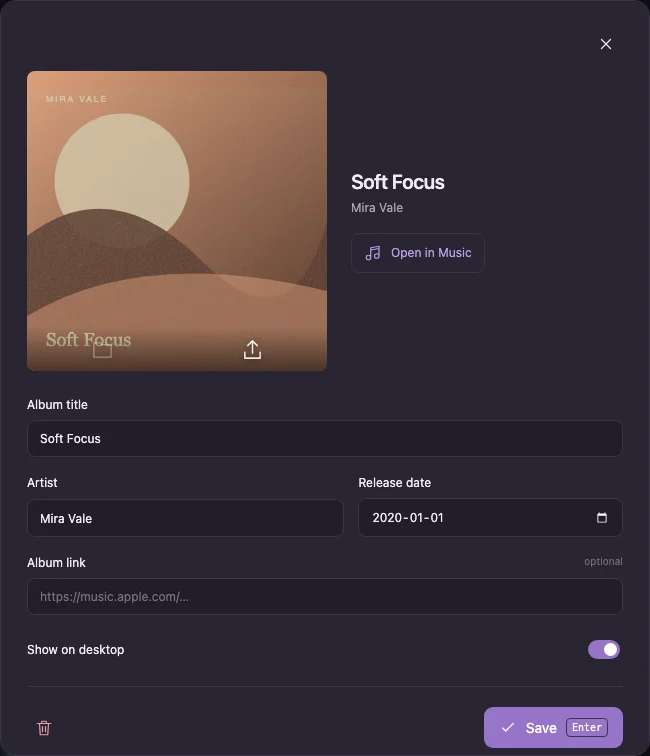
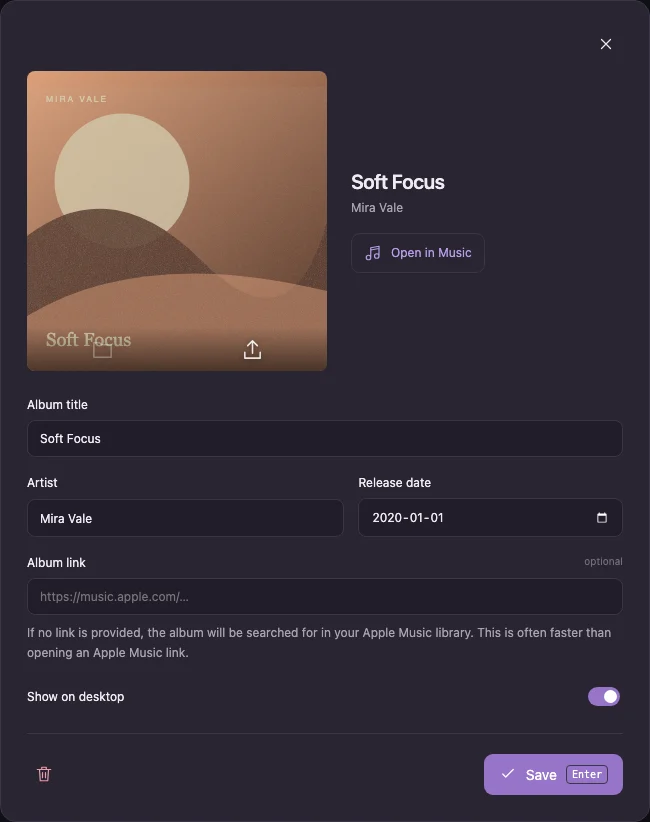
Explain Music library lookup below empty album links

diff --git a/src/App.svelte b/src/App.svelte
@@ -234,7 +234,7 @@
  <input class="visually-hidden" bind:this={files} type="file" accept="image/*" multiple onchange={(e)=>{void browserFiles(Array.from(e.currentTarget.files??[]));e.currentTarget.value=''}} aria-label="Artwork files"/>
  <input class="visually-hidden" bind:this={replacementFiles} type="file" accept="image/*" aria-label="Replacement image" onchange={(e)=>{const file=e.currentTarget.files?.[0];if(file)void replace(file);e.currentTarget.value=''}}/>
  <dialog class="album-dialog" bind:this={modal} onpointerdown={(e)=>backdropPointerDown=e.target===modal&&outsideDialog(modal,e)} onpointerup={(e)=>{if(backdropPointerDown&&e.target===modal&&outsideDialog(modal,e))closeEditor();backdropPointerDown=false}} onclose={()=>{if(!modal.open){gallery?.close();edit=null;confirmRemove=false}}} oncancel={closeEditor}>
- {#if edit}<form bind:this={editorForm} onsubmit={(e)=>{e.preventDefault();void saveAlbum()}}><div class="modal-heading"><button class="icon-only" type="button" aria-label="Close album editor" onclick={closeEditor}><Icon name="close"/></button></div><div class="editor-top"><div class="editor-artwork" bind:this={artworkTarget} class:replacing ondragover={(e)=>e.preventDefault()} ondrop={(e)=>{e.preventDefault();if(!api.native&&e.dataTransfer?.files.length===1)void replace(e.dataTransfer.files[0])}} role="presentation"><img draggable="false" ondragstart={(e)=>e.preventDefault()} src={api.originalUrl(edit)} alt={edit.title}/><button type="button" class="artwork-expand" aria-label="View original artwork" onclick={()=>edit&&showGallery(edit)}></button><div class="artwork-actions"><button type="button" class="icon-only" aria-label="Show original artwork in Finder" title="Show original artwork in Finder" onclick={revealArtwork} disabled={replacing||!api.native}><Icon name="folder"/></button><button type="button" class="icon-only" aria-label="Replace artwork" title="Replace artwork" onclick={chooseReplacement} disabled={replacing}><Icon name="upload"/></button></div>{#if replacing}<span class="replacement-progress">Replacing…</span>{/if}</div><div><h3>{edit.title}</h3><p>{edit.artist||'Make it your own.'}</p><button type="button" class="open-music" onclick={()=>edit&&open(edit)}><Icon name="music"/>Open in Music</button></div></div><label>Album title<input required bind:value={edit.title}/></label><div class="two-fields"><label>Artist<input bind:value={edit.artist}/></label><label>Release date<input type="date" bind:value={edit.date}/></label></div><label>Album link <span class="optional">optional</span><input type="url" placeholder="https://music.apple.com/…" bind:value={edit.url}/></label><label class="toggle-row"><span>Show on desktop</span><input class="switch" type="checkbox" bind:checked={edit.enabled}/></label><div class="editor-actions">{#if confirmRemove}<button type="button" class="danger" onclick={remove}>Remove this album</button><button type="button" onclick={()=>confirmRemove=false}>Keep it</button>{:else}<button type="button" class="icon-only danger" aria-label="Remove album" onclick={()=>confirmRemove=true}><Icon name="trash"/></button><button type="submit" class="primary" aria-label="Save" aria-keyshortcuts="Enter" disabled={saving||replacing}><Icon name="check"/>Save<Shortcut keys={['Enter']}/></button>{/if}</div></form>{/if}
+ {#if edit}<form bind:this={editorForm} onsubmit={(e)=>{e.preventDefault();void saveAlbum()}}><div class="modal-heading"><button class="icon-only" type="button" aria-label="Close album editor" onclick={closeEditor}><Icon name="close"/></button></div><div class="editor-top"><div class="editor-artwork" bind:this={artworkTarget} class:replacing ondragover={(e)=>e.preventDefault()} ondrop={(e)=>{e.preventDefault();if(!api.native&&e.dataTransfer?.files.length===1)void replace(e.dataTransfer.files[0])}} role="presentation"><img draggable="false" ondragstart={(e)=>e.preventDefault()} src={api.originalUrl(edit)} alt={edit.title}/><button type="button" class="artwork-expand" aria-label="View original artwork" onclick={()=>edit&&showGallery(edit)}></button><div class="artwork-actions"><button type="button" class="icon-only" aria-label="Show original artwork in Finder" title="Show original artwork in Finder" onclick={revealArtwork} disabled={replacing||!api.native}><Icon name="folder"/></button><button type="button" class="icon-only" aria-label="Replace artwork" title="Replace artwork" onclick={chooseReplacement} disabled={replacing}><Icon name="upload"/></button></div>{#if replacing}<span class="replacement-progress">Replacing…</span>{/if}</div><div><h3>{edit.title}</h3><p>{edit.artist||'Make it your own.'}</p><button type="button" class="open-music" onclick={()=>edit&&open(edit)}><Icon name="music"/>Open in Music</button></div></div><label>Album title<input required bind:value={edit.title}/></label><div class="two-fields"><label>Artist<input bind:value={edit.artist}/></label><label>Release date<input type="date" bind:value={edit.date}/></label></div><label>Album link <span class="optional">optional</span><input type="url" placeholder="https://music.apple.com/…" bind:value={edit.url} aria-describedby={!edit.url.trim()?'album-link-help':undefined}/></label>{#if !edit.url.trim()}<p id="album-link-help" class="album-link-help">If no link is provided, the album will be searched for in your Apple Music library. This is often faster than opening an Apple Music link.</p>{/if}<label class="toggle-row"><span>Show on desktop</span><input class="switch" type="checkbox" bind:checked={edit.enabled}/></label><div class="editor-actions">{#if confirmRemove}<button type="button" class="danger" onclick={remove}>Remove this album</button><button type="button" onclick={()=>confirmRemove=false}>Keep it</button>{:else}<button type="button" class="icon-only danger" aria-label="Remove album" onclick={()=>confirmRemove=true}><Icon name="trash"/></button><button type="submit" class="primary" aria-label="Save" aria-keyshortcuts="Enter" disabled={saving||replacing}><Icon name="check"/>Save<Shortcut keys={['Enter']}/></button>{/if}</div></form>{/if}
  </dialog>
  <dialog class="artwork-gallery" bind:this={gallery} aria-label="Original artwork" onclose={()=>{if(!gallery.open)galleryAlbum=null}} onclick={closeGallery} onkeydown={(e)=>{if(e.key==='Escape'){e.preventDefault();e.stopPropagation();closeGallery()}}}>
   {#if galleryAlbum}<img src={api.originalUrl(galleryAlbum)} alt={galleryAlbum.title} draggable="false" ondragstart={(e)=>e.preventDefault()} onload={(e)=>{const image=e.currentTarget as HTMLImageElement;artworkRatio=image.naturalWidth/image.naturalHeight}} style={`--artwork-ratio:${artworkRatio}`}/>{/if}

diff --git a/src/app.css b/src/app.css
@@ -10,6 +10,7 @@ dialog{width:min(510px,calc(100vw - 40px));padding:26px;border:1px solid var(--l
 @media(min-width:1350px){.album-grid{grid-template-columns:repeat(7,minmax(0,1fr))}}@media(max-width:1000px){header{padding-inline:25px;gap:14px}main{padding:30px 28px 0}.album-grid{grid-template-columns:repeat(5,minmax(0,1fr));gap:24px 18px}h1{font-size:29px}nav button{padding:9px}.appearance-layout{gap:22px;grid-template-columns:minmax(0,1fr) 300px}.monitor-preview{height:280px}}@media(max-width:760px){header{flex-wrap:wrap;height:auto;padding:18px 20px;gap:16px}header nav{order:3;width:100%}nav button{flex:1}.titlebar{padding-left:20px}.local-indicator{display:none}main{padding:28px 20px 0}.page-heading{align-items:start;gap:14px}.status-pill{font-size:0;padding:9px;gap:5px}.status-pill svg{margin:0}.album-grid{grid-template-columns:repeat(3,minmax(0,1fr))}.collection-meta,.search kbd{display:none}.search input{width:100px}.collection-toolbar{gap:10px}.toolbar-right{gap:0}.collection-tabs{gap:0}.import-strip{align-items:start;flex-direction:column}.appearance-layout,.settings-grid{grid-template-columns:1fr}.preview-column{position:static}.monitor-preview{height:320px}footer>span:last-child{display:none}.banner{margin-inline:20px}.collection-toolbar select{max-width:85px}.titlebar{display:none}}@media(prefers-reduced-motion:reduce){*,*::before,*::after{transition:none!important;animation:none!important}}
 
 .modal-error{color:var(--danger);font-size:12px;line-height:1.6;margin-bottom:18px;white-space:pre-wrap}
+.album-link-help{color:var(--muted);font-size:12px;line-height:1.6;margin:-10px 0 18px}
 
 /* Compact settings and the three appearance choices. */
 .settings-compact{max-width:660px;margin:0 auto;padding:4px 26px}.settings-compact .setting-row{margin:0;padding:24px 0;min-height:78px;font-size:13px}.settings-compact .setting-row+.setting-row{border-top:1px solid var(--line)}.settings-compact .setting-row>button{font-size:12px}.appearance-options{display:flex;gap:20px}.appearance-option{display:flex;flex-direction:column;gap:7px;padding:3px;border:0;background:none!important;font-size:10px;color:var(--muted)}.appearance-option .appearance-circle{border-radius:50%;padding:2px;width:34px;height:34px}.appearance-option.chosen .appearance-circle{outline:2px solid var(--accent);outline-offset:2px}.appearance-option.chosen{color:var(--ink)}.collection-toolbar .status-pill{font-size:10px;padding:7px 10px}.settings-compact+.footer{max-width:660px}.app-shell main{padding-top:24px}.settings-compact{margin-top:10px;margin-bottom:28px}

diff --git a/tests/screenshots.spec.ts b/tests/screenshots.spec.ts
@@ -28,8 +28,10 @@ test('README screenshots use only synthetic demo artwork',async({page})=>{
  await sharp(await page.screenshot({fullPage:true,animations:'disabled'})).webp({quality:86}).toFile('docs/screenshots/settings.webp')
  await page.getByRole('button',{name:'Collection',exact:true}).click()
  await page.getByRole('button',{name:'Edit Soft Focus',exact:true}).click()
+ await page.setViewportSize({width:1550,height:1000})
  await page.locator('.editor-artwork').hover()
  await sharp(await page.locator('.album-dialog').screenshot({animations:'disabled'})).webp({quality:86}).toFile('docs/screenshots/album.webp')
+ await page.setViewportSize({width:1550,height:840})
  await page.getByRole('button',{name:'View original artwork',exact:true}).click()
  await page.locator('.artwork-gallery img').evaluate(async(image:HTMLImageElement)=>image.decode())
  await page.mouse.move(0,0)
